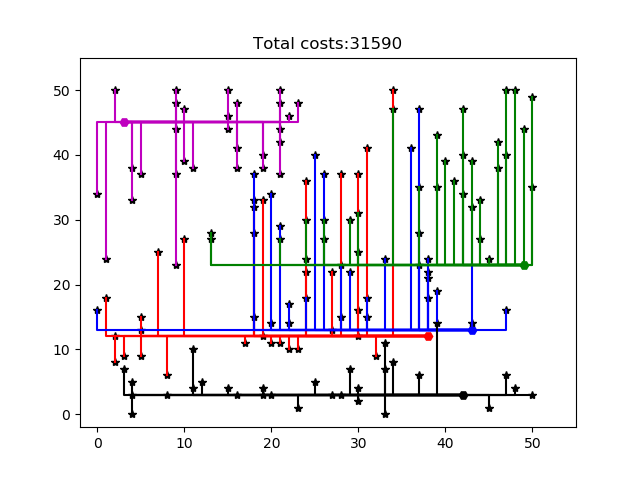
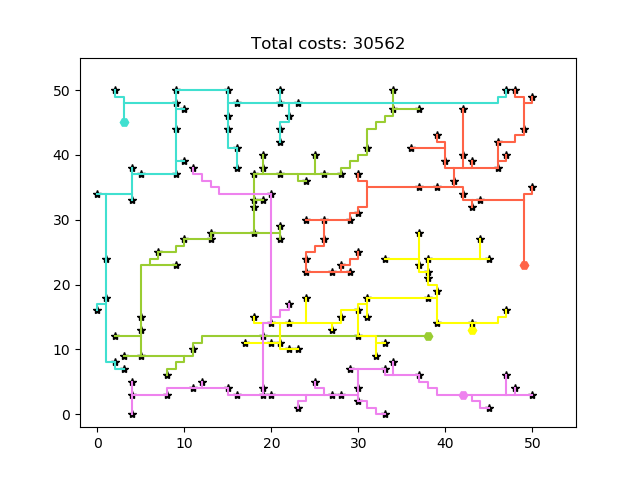
update costs (include batteries) + SA_parameters_experiment

Changed region(s): [[0.125, 0.1875, 0.8438, 0.875], [0.375, 0.0625, 0.625, 0.125]]

diff --git a/code/algorithms/simulatedannealing.py b/code/algorithms/simulatedannealing.py
@@ -16,7 +16,7 @@ class SimulatedAnnealing():
     will be found.
     """
 
-    def __init__(self, batteries, share_grid, temp = 100, cooling_rate = 0.03, scheme = "linear"):
+    def __init__(self, batteries, share_grid, temp = 100, cooling_rate = 0.03, scheme = "exp"):
         self.batteries = batteries
         self.share_grid = share_grid 
         self.temp = temp
@@ -66,12 +66,18 @@ class SimulatedAnnealing():
             for battery in self.batteries:
                 for house in battery.houses:
                     costs += (abs(house.x - battery.x) + abs(house.y - battery.y)) * 9
+                
+                costs += battery.costs
             
             self.all_costs.append(costs)
 
         else:
             prim = Prim(self.batteries)
-            self.all_costs.append(prim.costs)
+
+            for battery in self.batteries:
+                costs += battery.costs
+
+            self.all_costs.append(prim.costs + costs)
 
     def plot_costs(self,results_directory, optimization, district_nr):
         """Plot the cost progression given the optimazation type and
@@ -107,15 +113,15 @@ class SimulatedAnnealing():
                 chosen_capacity = chosen_battery.capacity + chosen_house.power
                 potential_capacity = potential_battery.capacity + potential_house.power
 
-                if potential_house.power < capacity and \
+                if potential_house.power < chosen_capacity and \
                     chosen_house.power < potential_capacity:
                     
                     if self.share_grid == False:
-                        potential_distance = get_manhattan_distance(potential_house, potential_battery) + \
-                            get_manhattan_distance(chosen_house, chosen_battery)
+                        potential_distance = get_distance(potential_house, potential_battery) + \
+                            get_distance(chosen_house, chosen_battery)
 
-                        new_distance = get_manhattan_distance(chosen_house, potential_battery) + \
-                            get_manhattan_distance(potential_house, chosen_battery)
+                        new_distance = get_distance(chosen_house, potential_battery) + \
+                            get_distance(potential_house, chosen_battery)
 
                         cost_difference = potential_distance - new_distance
                     
@@ -123,7 +129,12 @@ class SimulatedAnnealing():
                         swap(potential_house, potential_battery, chosen_house, chosen_battery)
 
                         prim = Prim(self.batteries)
-                        new_costs = prim.costs
+                        
+                        battery_costs = 0
+                        for battery in self.batteries:
+                            battery_costs += battery.costs
+
+                        new_costs = prim.costs + battery_costs
                         cost_difference = old_costs - new_costs
 
                         reverse_swap(potential_house, potential_battery, chosen_house, chosen_battery)

diff --git a/code/helpers/get_user_input.py b/code/helpers/get_user_input.py
@@ -1,31 +1,27 @@
-def get_user_input(initialization_options, districts, yes_no, optimization_options):
-    """" Ask user for input untill one of the given options is chosen"""
+def get_user_input(context):
+    """" Prompt user for input untill one of the given options is chosen"""
     
-    # define variables 
     hillclimber_types = ["stochastic", "steepest"]
     optimization_type = []
 
     # get initialization type from user
     initialization = input("Initialization type (greedy/random/cluster): ").lower()
 
-    # keep prompting untull one of the options is chosen
-    while initialization not in initialization_options:
+    while initialization not in context["initialization_options"]:
         print("please try again")
         initialization = input("Initialization type (greedy/random/cluster): ").lower()
 
     # get discrict number type from user
     district = input("District number (1/2/3): ")    
 
-    # keep prompting untull one of the options is chosen
-    while district not in districts:
+    while district not in context["districts"]:
         print("please try again")
         district = input("District number (1/2/3): ") 
 
     # user can choose whether or not houses can share gridlines
     share_grid = input("Can houses share gridlines? use Prim's algorithm if so (yes/no): ").lower()
 
-    # keep prompting untull one of the options is chosen
-    while share_grid not in yes_no:
+    while share_grid not in context["bools"]:
         print("please try again")
         share_grid = input("Share grid (yes/no): ").lower()
     
@@ -37,8 +33,7 @@ def get_user_input(initialization_options, districts, yes_no, optimization_optio
     # ask user for the optimization type 
     optimization = input("Optimization type (none/hillclimber/simulated annealing): ").lower()
 
-    # keep prompting untull one of the options is chosen
-    while optimization not in optimization_options:
+    while optimization not in context["optimization_options"]:
         print("please try again")
         optimization = input("Algorithm type (none/hillclimber/simulated annealing): ").lower()
 
@@ -46,7 +41,6 @@ def get_user_input(initialization_options, districts, yes_no, optimization_optio
     if optimization == "hillclimber":
         optimization_type = input("Hillclimber type (stochastic/steepest): ").lower()
 
-        # keep prompting untull one of the options is chosen
         while optimization_type not in hillclimber_types:
             print("please try again")
             optimization_type = input("Hillclimber type (stochastic/steepest): ").lower()
@@ -54,8 +48,7 @@ def get_user_input(initialization_options, districts, yes_no, optimization_optio
     # ask user for battery placement(advanced)
     advanced = input("Place batteries (yes/no): ").lower()
 
-    # keep prompting untull one of the options is chosen
-    while advanced not in yes_no:
+    while advanced not in context["bools"]:
         print("please try again")
         share_grid = input("Place batteries (yes/no): ").lower()
     

diff --git a/SA_parameters_experiemnt.py b/SA_parameters_experiemnt.py
@@ -1,0 +1,64 @@
+import os, sys
+directory = os.path.dirname(os.path.realpath(__file__))
+results_directory = directory + '/results/'
+sys.path.append(os.path.join(directory, "code"))
+sys.path.append(os.path.join(directory, "data"))
+sys.path.append(os.path.join(directory, "code", "objects"))
+sys.path.append(os.path.join(directory, "code", "algorithms"))
+sys.path.append(os.path.join(directory, "code", "helpers"))
+
+from configuration import Configuration
+from simulatedannealing import SimulatedAnnealing
+import matplotlib.pyplot as plt 
+from mpl_toolkits.mplot3d import axes3d
+import numpy as np 
+
+
+def SA_parameters_experiment():
+    """Given a list of temperatures and a list of coolings rates, this function will
+    perform a simulated annealing for every combination. The minimum costs will be
+    saved in 3D figure (temperature, coolingrate, costs) in which the optimal
+    parameters combination can be found."""
+
+    district = "1"              # ,"2","3"],
+    initialization = "greedy"   #, "random", "cluster"
+    share_grid = True           # False
+    advanced = False            # True
+
+    temperatures = np.arange(102, 110, 1)
+    cooling_rates = np.arange(0.02, 0.09, 0.01)
+    SA_SCHEME = "exp"
+
+    min_costs = []
+    xs = []
+    ys = []
+
+    # parameters for simulated_annealing
+    for i in range(len(temperatures)):
+        for j in range(len(cooling_rates)):
+            TEMP = temperatures[i]
+            COOLING_RATE = cooling_rates[j]
+            config1 = Configuration(initialization, district, share_grid, advanced)
+            SA = SimulatedAnnealing(config1.batteries, share_grid, TEMP, COOLING_RATE, SA_SCHEME)
+            min_costs.append(min(SA.all_costs))
+            xs.append(TEMP)
+            ys.append(COOLING_RATE)
+
+    # now plot results
+    fig = plt.figure()
+    ax = plt.axes(projection='3d')
+
+    # create 3D plot and save
+    ax.plot_trisurf(xs, ys, min_costs, cmap ="Reds")
+    index_min_cost = min_costs.index(min(min_costs))
+
+    plt.title(f"temp:{xs[index_min_cost]}\n cooling_rate: {ys[index_min_cost]}")
+    plt.ylabel("cooling factors")
+    plt.xlabel("temperature")
+    
+    save_name_grid = f"SA_parameters{district}_{initialization}_{share_grid}"
+    plt.savefig(results_directory + save_name_grid)
+
+
+if __name__ == "__main__":
+    SA_parameters_experiment()

diff --git a/main.py b/main.py
@@ -20,26 +20,20 @@ import json
 
 def main():
     
-    # global variables 
-    HC_ITERATIONS = 1000
-    TEMP = 102
-    COOLING_RATE = 0.03
-    SA_SCHEME = "exp"
-
     # parameters from which the user can choose 
-    districts = ["1","2","3"]
-    initialization_options = ["greedy", "random", "cluster"]
-    optimization_options = ["none", "hillclimber","simulated annealing"]
-    yes_no = ["yes", "no"]
-    #context?
+    context = {
+        "districts": ["1","2","3"],
+        "initialization_options": ["greedy", "random", "cluster"],
+        "optimization_options": ["none", "hillclimber","simulated annealing"],
+        "bools": ["yes", "no"]
+    }
 
     # welcome user
     print("\nWelcome to SmartGrid\n")
     
     # let user choose which parameters to use
-    initialization, district, share_grid, optimization, optimization_type, advanced = get_user_input(initialization_options, districts, yes_no, optimization_options)
-
-
+    initialization, district, share_grid, optimization, optimization_type, advanced = get_user_input(context)
+    
     # initial configuration
     config1 = Configuration(initialization, district, share_grid, advanced)
 
@@ -49,7 +43,7 @@ def main():
     
     elif optimization == "hillclimber":
         # create HC object with current parameters
-        HC = HillClimber(config1.batteries, optimization_type, HC_ITERATIONS, share_grid)
+        HC = HillClimber(config1.batteries, optimization_type, share_grid)
 
         # generate figure with the change in costs over all iterations
         HC.plot_costs(results_directory, optimization, config1.district_nr)
@@ -60,7 +54,7 @@ def main():
 
     else: # optimization == simulated annealing
         # create SA object with current parameters
-        SA = SimulatedAnnealing(config1.batteries, share_grid, TEMP, COOLING_RATE, SA_SCHEME)
+        SA = SimulatedAnnealing(config1.batteries, share_grid)
         
         # generate figure with the change in costs over all iterations
         SA.plot_costs(results_directory, optimization, config1.district_nr)
@@ -75,7 +69,7 @@ def main():
         output = get_output_shared(config1)
     
     # print output
-    # print(json.dumps(output, indent=4))
+    print(json.dumps(output, indent=4))
 
 
 if __name__ == "__main__":

diff --git a/code/algorithms/hillclimber.py b/code/algorithms/hillclimber.py
@@ -13,7 +13,7 @@ class HillClimber():
     Plotting the results is also possible.
     """
 
-    def __init__(self, batteries, variant, iterations, share_grid):
+    def __init__(self, batteries, variant, share_grid, iterations = 10):
         self.batteries = batteries
         self.variant = variant
         self.iterations = iterations
@@ -59,7 +59,12 @@ class HillClimber():
                             chosen_battery)
                         
                         prim = Prim(self.batteries)
-                        new_costs = prim.costs
+                        
+                        battery_costs = 0
+                        for battery in self.batteries:
+                            battery_costs += battery.costs
+
+                        new_costs = prim.costs + battery_costs 
                         cost_difference = old_costs - new_costs
                     
                         reverse_swap(potential_house, 
@@ -102,12 +107,16 @@ class HillClimber():
             for battery in self.batteries:
                 for house in battery.houses:
                     costs += (abs(house.x - battery.x) + abs(house.y - battery.y)) * 9
+                # costs += battery.costs
             
             self.all_costs.append(costs)
 
         else:
             prim = Prim(self.batteries)
-            self.all_costs.append(prim.costs)
+            for battery in self.batteries:
+                costs += battery.costs
+
+            self.all_costs.append(prim.costs + costs)
 
     def plot_costs(self, results_directory, optimization, district_nr):
         """Plot the cost progression given the optimazation type and

diff --git a/code/algorithms/configuration.py b/code/algorithms/configuration.py
@@ -246,7 +246,8 @@ class Configuration():
             plt.plot(battery.x, battery.y, 'H', color=colors[battery.id -1])
             for house in battery.houses:
                 plt.plot(house.x, house.y, 'k*')
-
+                
+        costs = 0
         if self.share_grid == False:
             self.get_routes() 
             i = 0
@@ -255,20 +256,24 @@ class Configuration():
                     plt.plot(x, y, colors[i])
                 i += 1
             
-            costs = 0
             for battery in self.batteries:
                 for house in battery.houses:
                     costs += (abs(house.x - battery.x) + abs(house.y - battery.y)) * 9
+                costs += battery.costs
             plt.title(f"Total costs:{costs}")
 
         else:
             i = 0
             prim = Prim(self.batteries)
+
+            for battery in self.batteries:
+                costs += battery.costs
+
             for mst in prim.mst_container:
                 for branch in mst.keys():
                     plt.plot(branch.path[0], branch.path[1], colors[i])
                 i += 1
-            plt.title(f"Total costs: {prim.costs}")
+            plt.title(f"Total costs: {prim.costs + costs}")
             
         plt.xlim(-2, 55)
         plt.ylim(-2, 55)

diff --git a/code/algorithms/prim.py b/code/algorithms/prim.py
@@ -33,7 +33,7 @@ class Prim():
             houses = copy.deepcopy(battery.houses)
 
             for house in houses:
-                distance = get_manhattan_distance(house, battery)
+                distance = get_distance(house, battery)
                 tree[battery][house] = distance
             
             least_distance = {}
@@ -58,12 +58,12 @@ class Prim():
                 for node in new_nodes:
                     tree[node] = {}
                     for house in houses:
-                        distance = get_manhattan_distance(node, house)
+                        distance = get_distance(node, house)
                         tree[node][house] = distance
                 
                 tree[new_vertice] = {}
                 for house in houses:
-                    distance = get_manhattan_distance(new_vertice, house)
+                    distance = get_distance(new_vertice, house)
                     tree[new_vertice][house] = distance
             
             self.mst_container.append(mst)
